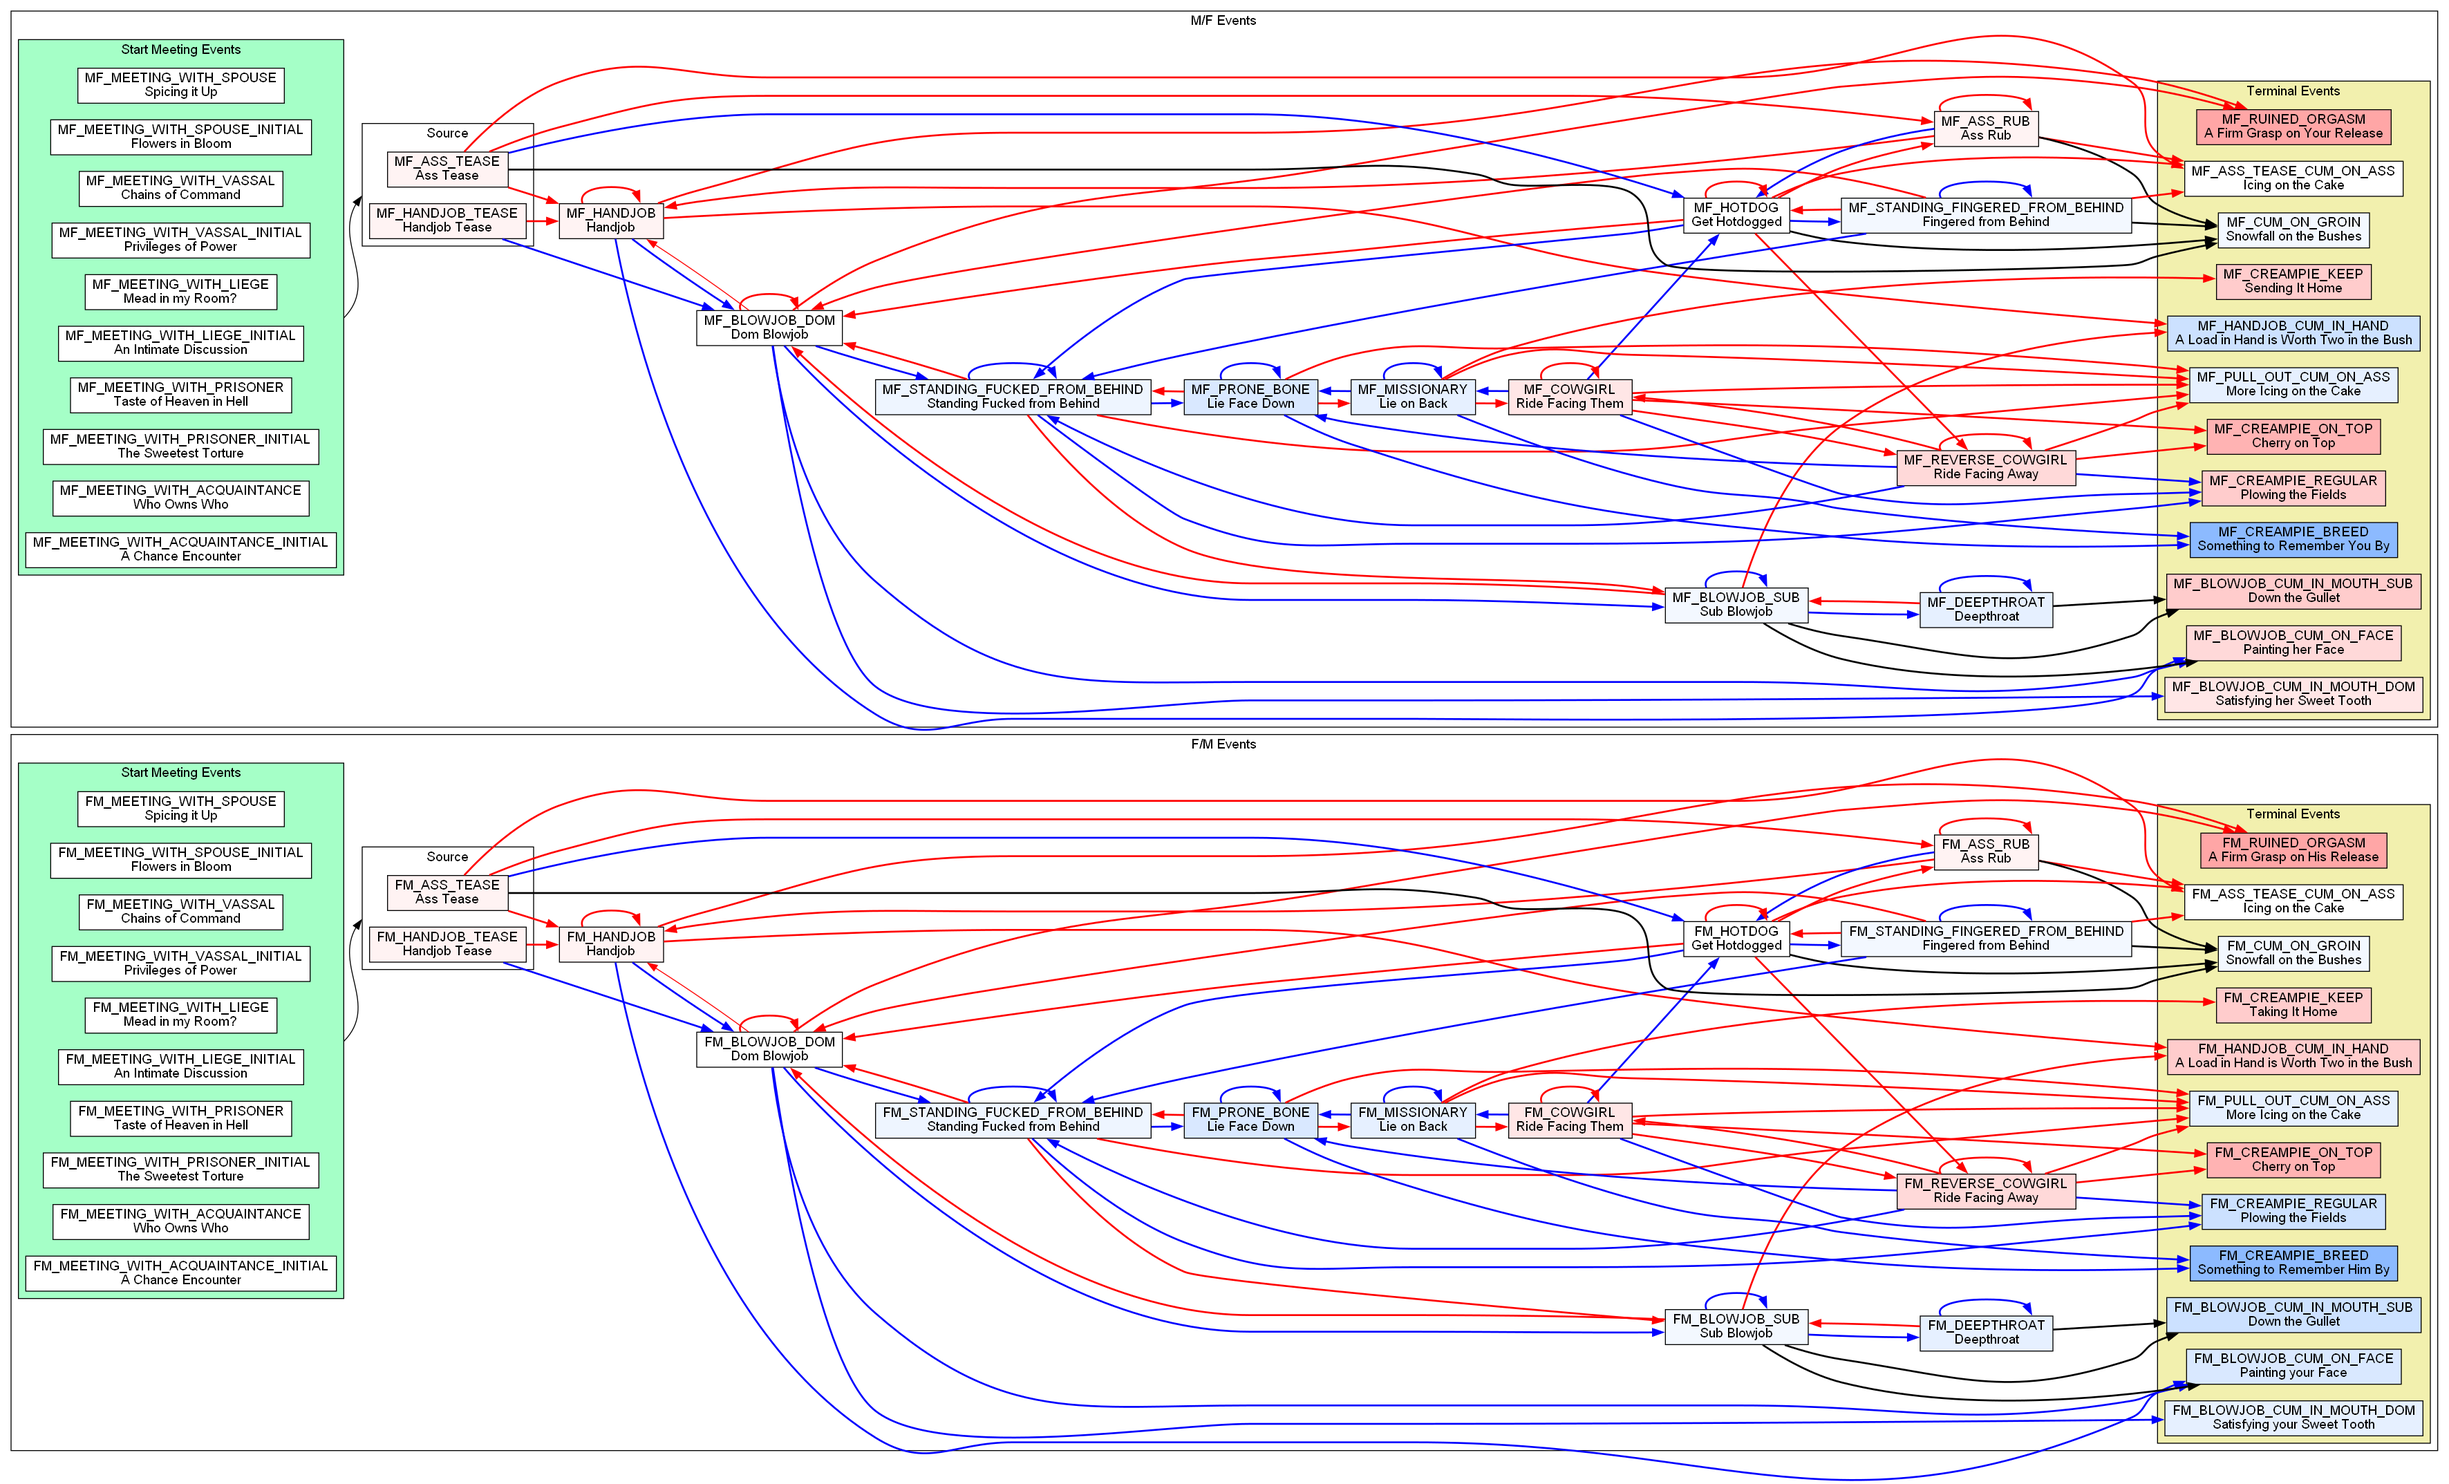
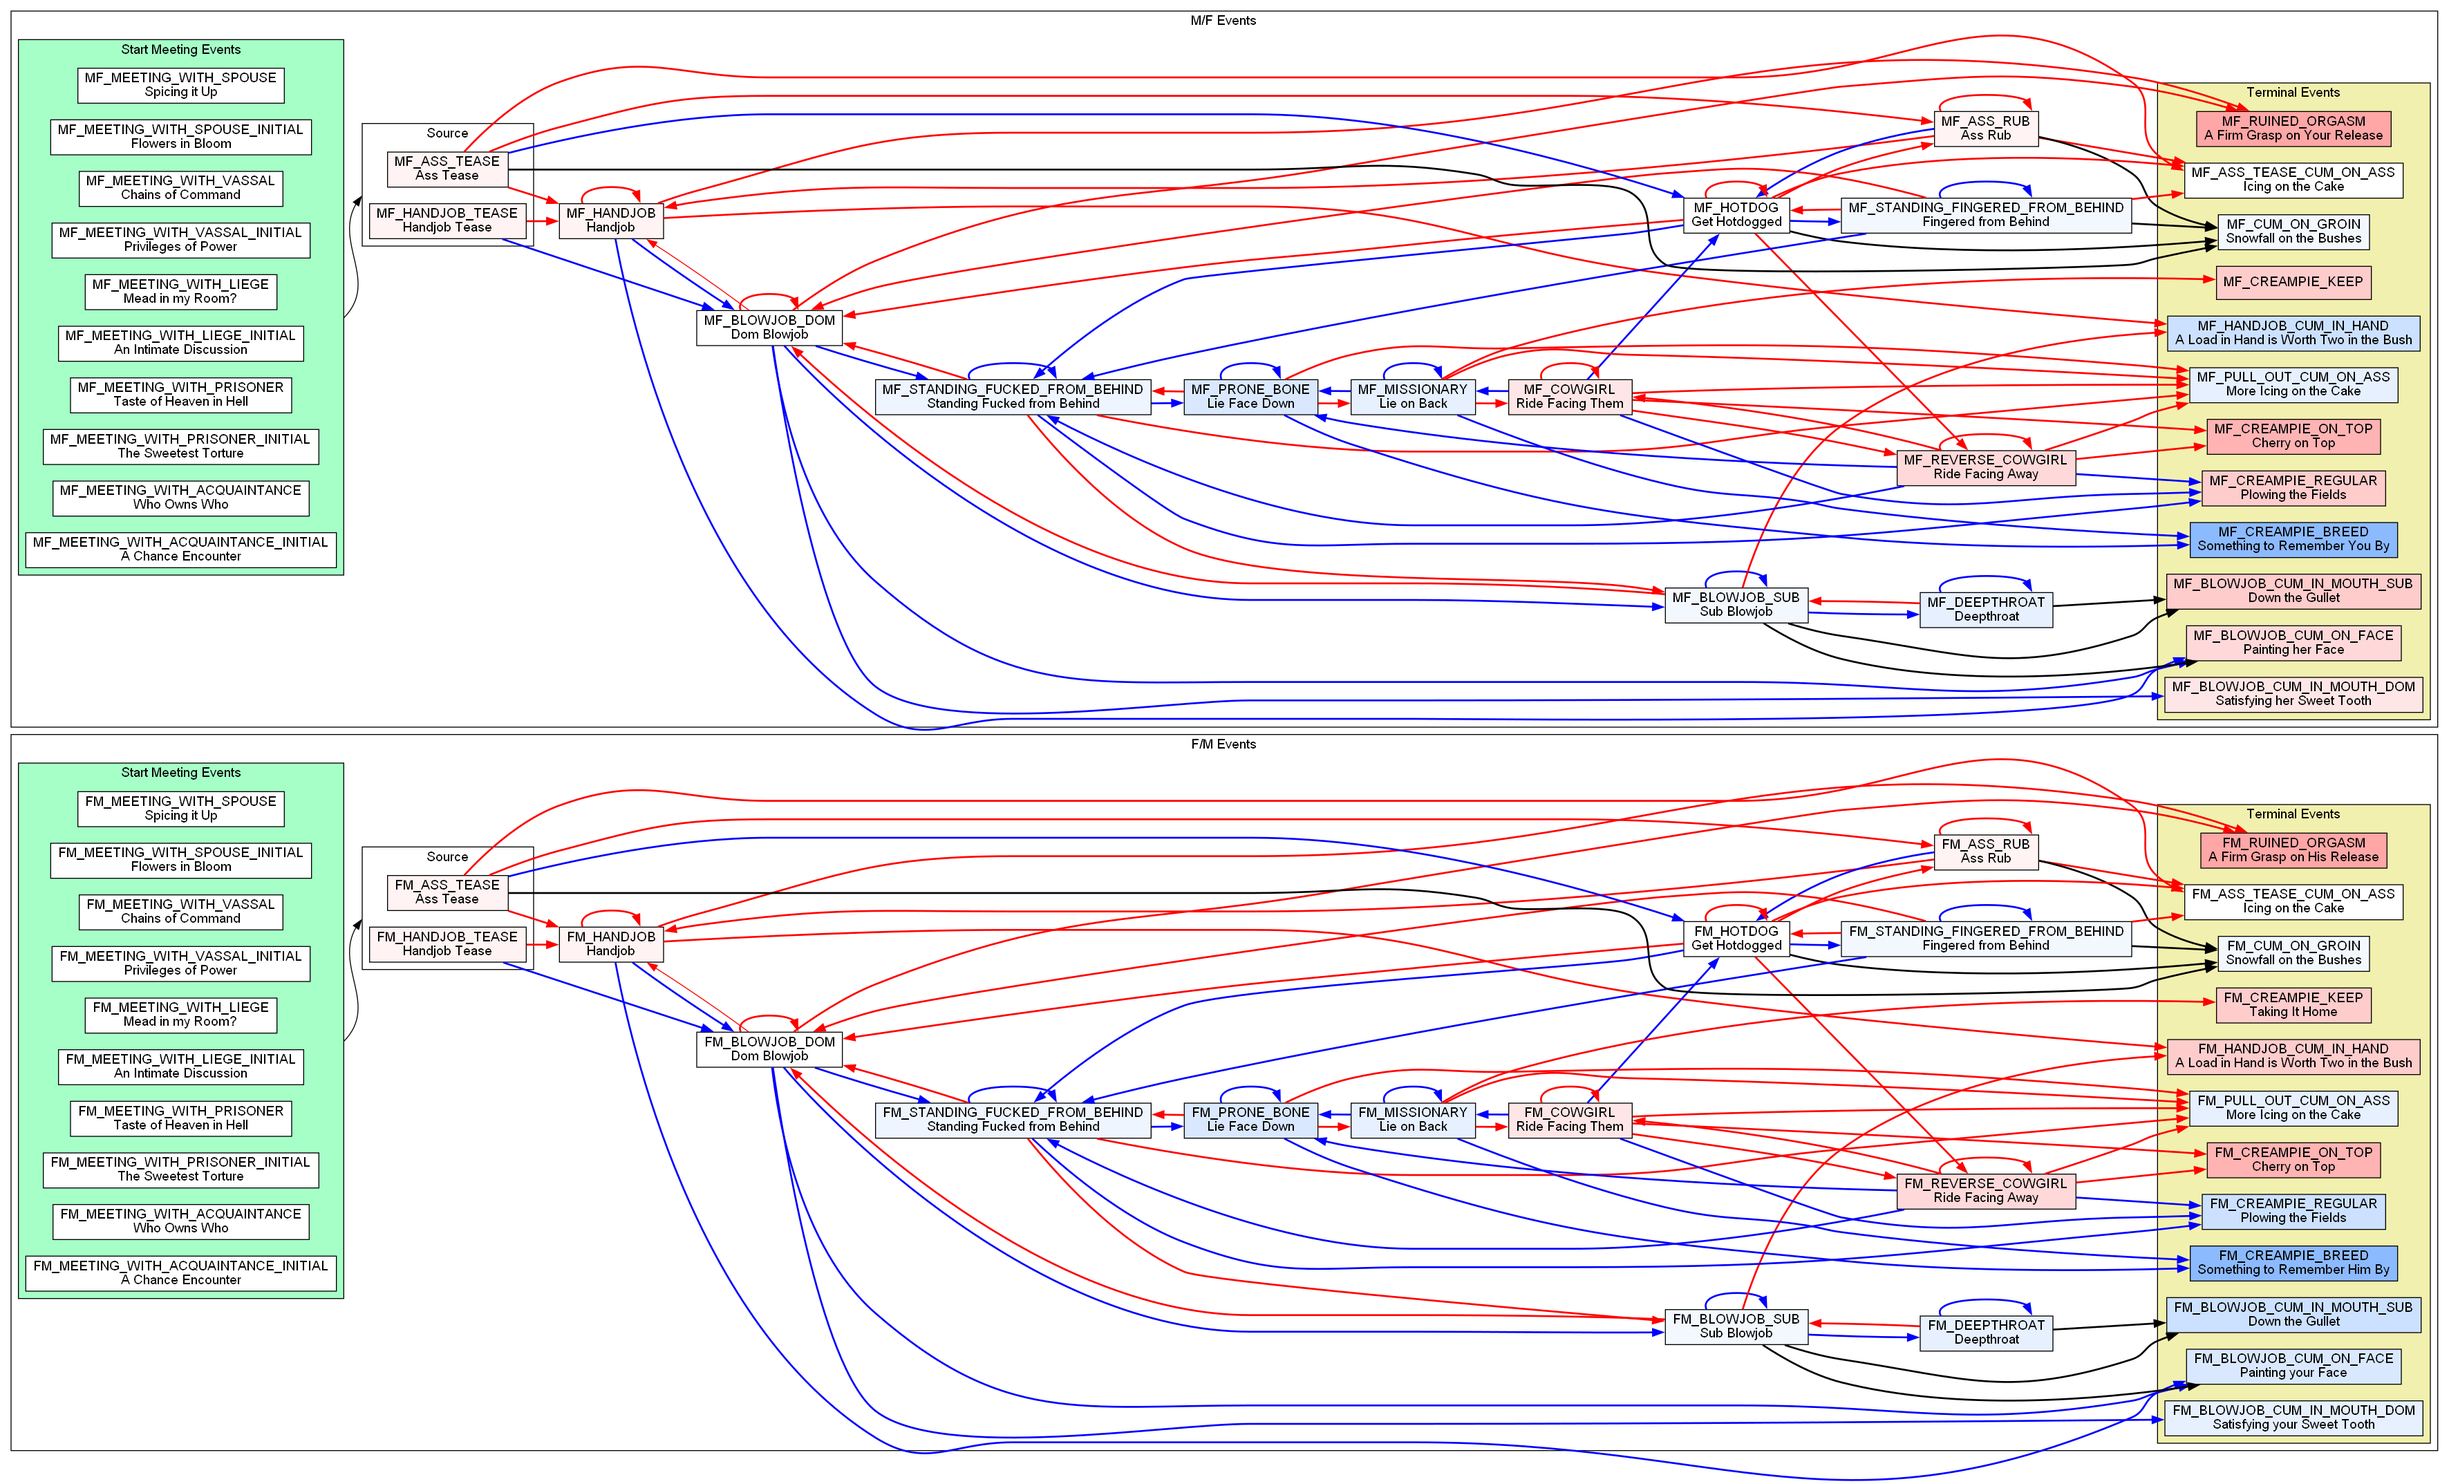
idk

Changed region(s): [[0.8383, 0.0312, 0.9935, 0.2184]]

diff --git a/generate_events.py b/generate_events.py
@@ -1198,9 +1198,36 @@ def generate_strings(events, options):
                 inside_limit_check_gender(b, FEMALE, MALE)
             add_meeting_events(b, es, EventsFirst.FM_MEETING_WITH_ACQUAINTANCE_INITIAL,
                                EventsFirst.FM_MEETING_WITH_ACQUAINTANCE)
-        # TODO M/F events and other pairings
-        with Block(b, ELSE):
-            b.assign(TRIGGER_EVENT, UNIMPLEMENTED_PAIRING_EVENT)
+
+        # M/F Events
+        with Block(b, IF):
+            with Block(b, LIMIT):
+                b.assign(IS_SPOUSE_OF, AFFAIRS_PARTNER)
+                inside_limit_check_gender(b, MALE, FEMALE)
+            add_meeting_events(b, es, EventsFirst.MF_MEETING_WITH_SPOUSE_INITIAL, EventsFirst.MF_MEETING_WITH_SPOUSE)
+        with Block(b, ELSE_IF):
+            with Block(b, LIMIT):
+                b.assign(IS_IN_LIST, prisoner_list)
+                inside_limit_check_gender(b, MALE, FEMALE)
+            add_meeting_events(b, es, EventsFirst.MF_MEETING_WITH_PRISONER_INITIAL, EventsFirst.MF_MEETING_WITH_PRISONER)
+        with Block(b, ELSE_IF):
+            with Block(b, LIMIT):
+                b.assign(IS_VASSAL_OR_BELOW_OF, AFFAIRS_PARTNER)
+                inside_limit_check_gender(b, MALE, FEMALE)
+            add_meeting_events(b, es, EventsFirst.MF_MEETING_WITH_LIEGE_INITIAL, EventsFirst.MF_MEETING_WITH_LIEGE)
+        with Block(b, ELSE_IF):
+            with Block(b, LIMIT):
+                b.assign(TARGET_IS_VASSAL_OR_BELOW, AFFAIRS_PARTNER)
+                inside_limit_check_gender(b, MALE, FEMALE)
+            add_meeting_events(b, es, EventsFirst.MF_MEETING_WITH_VASSAL_INITIAL, EventsFirst.MF_MEETING_WITH_VASSAL)
+        with Block(b, ELSE_IF):
+            with Block(b, LIMIT):
+                inside_limit_check_gender(b, MALE, FEMALE)
+            add_meeting_events(b, es, EventsFirst.MF_MEETING_WITH_ACQUAINTANCE_INITIAL,
+                               EventsFirst.MF_MEETING_WITH_ACQUAINTANCE)
+        # TODO M/F events and other pairings #this caused all MF events to throw out a fake error for obv reasons
+    #    with Block(b, ELSE):
+    #        b.assign(TRIGGER_EVENT, UNIMPLEMENTED_PAIRING_EVENT)
 
     # generate sex source effect to allow directly randomly transitioning into a sex event
     with Block(b, SELECT_RANDOM_SEX_SOURCE_EFFECT):
@@ -1805,8 +1832,8 @@ def define_sex_events(es: EventMap):
                           transition_text=f"""
                           Giving him something else to thrust into, you get on your knees and starting sucking.""",
                           failed_transition_text=f"""
-                          You move to pull away from his fingers, but your endeavour is stopped
-                          by a particularly deep thrust scraping your inner walls."""),
+                          You move to pull away from his fingers, but are stopped
+                          by a particularly #bold deep#! thrust scraping your inner walls."""),
                    Option(EventsSex.FM_STANDING_FINGERED_FROM_BEHIND, OptionCategory.SUB,
                           "Continue enjoying his deft hands",
                           transition_text=f"""
@@ -2059,7 +2086,7 @@ def define_sex_events(es: EventMap):
                He's in complete control of your body and mind
                """,
                                  TriggeredDesc(f"{HAS_TRAIT} = {LIDA_SUB}", """
-                and you're enjoying #sub every#! single moment of him #italic splitting you in half#!"""),
+                and you're enjoying #sub every#! single moment of his cock #italic splitting you in half#!"""),
                                  TriggeredDesc(f"{HAS_TRAIT} = {LIDA_DOM}", """
                 and you #dom hate#! having to admit to yourself that he might #italic break#! you"""), "."
                                  ),
@@ -2501,8 +2528,8 @@ def define_sex_events(es: EventMap):
                           transition_text=f"""
                           Giving him something else to thrust into, you get on your knees and starting sucking.""",
                           failed_transition_text=f"""
-                          You move to pull away from his fingers, but your endeavour is stopped
-                          by a particularly deep thrust scraping your inner walls."""),
+                          You move to pull away from his fingers, but are stopped
+                          by a particularly #bold deep#! thrust scraping your inner walls."""),
                    Option(EventsSex.MF_STANDING_FINGERED_FROM_BEHIND, OptionCategory.SUB,
                           "Continue enjoying his deft hands",
                           transition_text=f"""
@@ -2752,10 +2779,10 @@ def define_sex_events(es: EventMap):
                desc=ComposedDesc(f"""
                You are face down with your legs closed while {THEM} thrusts deep in your moist womb, your mind melting from the echoing sound of
                #bold your cheeks getting clapped#! as each #italic ravaging#! stroke sends #sub paralyzing#! jolts of pleasure through your whole being. \\n\\n
-               He's in complete control of your body and mind
+               He's in complete control of you
                """,
                                  TriggeredDesc(f"{HAS_TRAIT} = {LIDA_SUB}", """
-                and you're enjoying #sub every#! single moment of him #italic splitting you in half#!"""),
+                and you're enjoying #sub every#! single moment of his cock #italic splitting you in half#!"""),
                                  TriggeredDesc(f"{HAS_TRAIT} = {LIDA_DOM}", """
                 and you #dom hate#! having to admit to yourself that he might #italic break#! you"""), "."
                                  ),
@@ -3095,7 +3122,7 @@ def define_cum_events(es: EventMap):
                or is he #italic trying#! to breed you? Either way, you #sub love#! the feeling.""", ),
                    TriggeredDesc(f"{HAS_TRAIT} = {LIDA_SUB} \n {HAS_TRAIT} = {PREGNANT}", f"""
                even with a bun already in you? How #sub flattering#!.""", ),
-                   """\\n\\n""",
+                   TriggeredDesc(f"{HAS_TRAIT} = {LIDA_SUB}", """\\n\\n"""),
 
                    TriggeredDesc(f"{SCOPE}:{SUBDOM} >= 10", f"""
                "M-my {ME_LADY_LORD}!", {THEM} blurts out while staring at your stuffed hole in shock.
@@ -3337,7 +3364,7 @@ def define_cum_events(es: EventMap):
     es.add(Cum(EventsCum.MF_PULL_OUT_CUM_ON_ASS, "More Icing on the Cake",
                subdom_change=1,
                root_gender = MALE, partner_gender = FEMALE,
-               preg_chance_1=0.05 * PREGNANCY_CHANCE,
+               preg_chance_2=0.05 * PREGNANCY_CHANCE,
                animation_left=FLIRTATION_LEFT, animation_right=PERSONALITY_BOLD,
                root_become_more_sub_chance=10,
                terminal_option=Option(None, OptionCategory.OTHER, "Clean yourself and get dressed"),
@@ -3369,7 +3396,7 @@ def define_cum_events(es: EventMap):
                subdom_change=-1,
                root_gender = MALE, partner_gender = FEMALE,
                root_become_more_sub_chance=5,
-               preg_chance_1=PREGNANCY_CHANCE * 0.01,
+               preg_chance_2=PREGNANCY_CHANCE * 0.01,
                animation_left=DISMISSAL, animation_right=PERSONALITY_BOLD,
                terminal_option=Option(None, OptionCategory.OTHER, "Clean up the white coating on your groin"),
                desc=ComposedDesc(f"""
@@ -3426,7 +3453,7 @@ def define_cum_events(es: EventMap):
                subdom_change=3,
                root_gender = MALE, partner_gender = FEMALE,
                root_become_more_dom_chance=30,
-               preg_chance_1=PREGNANCY_CHANCE,
+               preg_chance_2=PREGNANCY_CHANCE,
                animation_left=FLIRTATION_LEFT, animation_right=SHOCK,
                terminal_option=Option(None, OptionCategory.OTHER, "Wipe the silky threads hanging from your slit"),
                desc=ComposedDesc(f"""
@@ -3452,7 +3479,7 @@ def define_cum_events(es: EventMap):
                subdom_change=-6,
                root_gender = MALE, partner_gender = FEMALE,
                root_become_more_sub_chance=45,
-               preg_chance_1=PREGNANCY_CHANCE * 1.5,
+               preg_chance_2=PREGNANCY_CHANCE * 1.5,
                animation_left=WORRY, animation_right=PERSONALITY_BOLD,
                terminal_option=Option(None, OptionCategory.OTHER,
                                       "Feel his seed trickle from your slit for the rest of the day"),
@@ -3470,7 +3497,7 @@ def define_cum_events(es: EventMap):
                or is he #italic trying#! to breed you? Either way, you #sub love#! the feeling.""", ),
                    TriggeredDesc(f"{HAS_TRAIT} = {LIDA_SUB} \n {HAS_TRAIT} = {PREGNANT}", f"""
                even with a bun already in you? How #sub flattering#!.""", ),
-                   """\\n\\n""",
+                   TriggeredDesc(f"{HAS_TRAIT} = {LIDA_SUB}", """\\n\\n"""),
 
                    TriggeredDesc(f"{SCOPE}:{SUBDOM} >= 10", f"""
                "M-my {ME_LADY_LORD}!", {THEM} blurts out while staring at your stuffed hole in shock.
@@ -3517,11 +3544,11 @@ def define_cum_events(es: EventMap):
                """, ),
                ),
                ))
-    es.add(Cum(EventsCum.MF_CREAMPIE_KEEP, "Sending It Home",
+    es.add(Cum(EventsCum.MF_CREAMPIE_KEEP, "",
                subdom_change=2,
                root_gender = MALE, partner_gender = FEMALE,
                root_become_more_dom_chance=20,
-               preg_chance_1=PREGNANCY_CHANCE * 2,
+               preg_chance_2=PREGNANCY_CHANCE * 2,
                animation_left=ECSTASY, animation_right=SHOCK,
                terminal_option=Option(None, OptionCategory.OTHER, "No need to clean up, it's #bold all#! inside you"),
                desc=ComposedDesc(f"""
